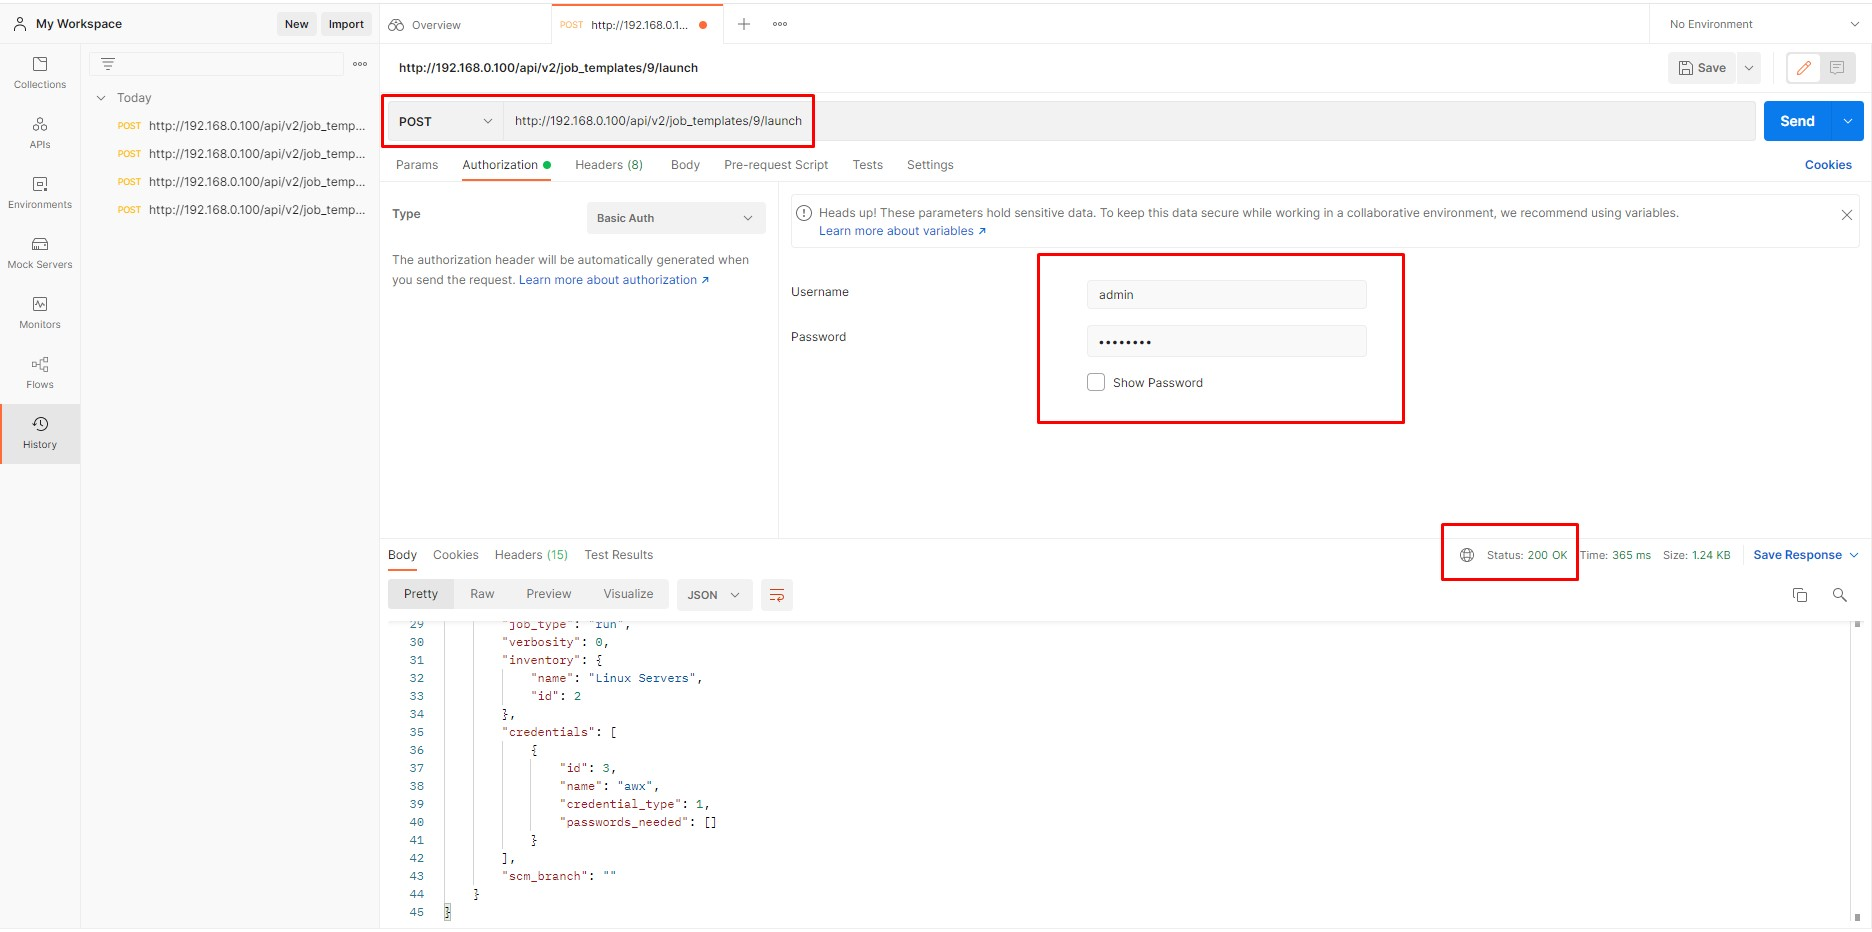
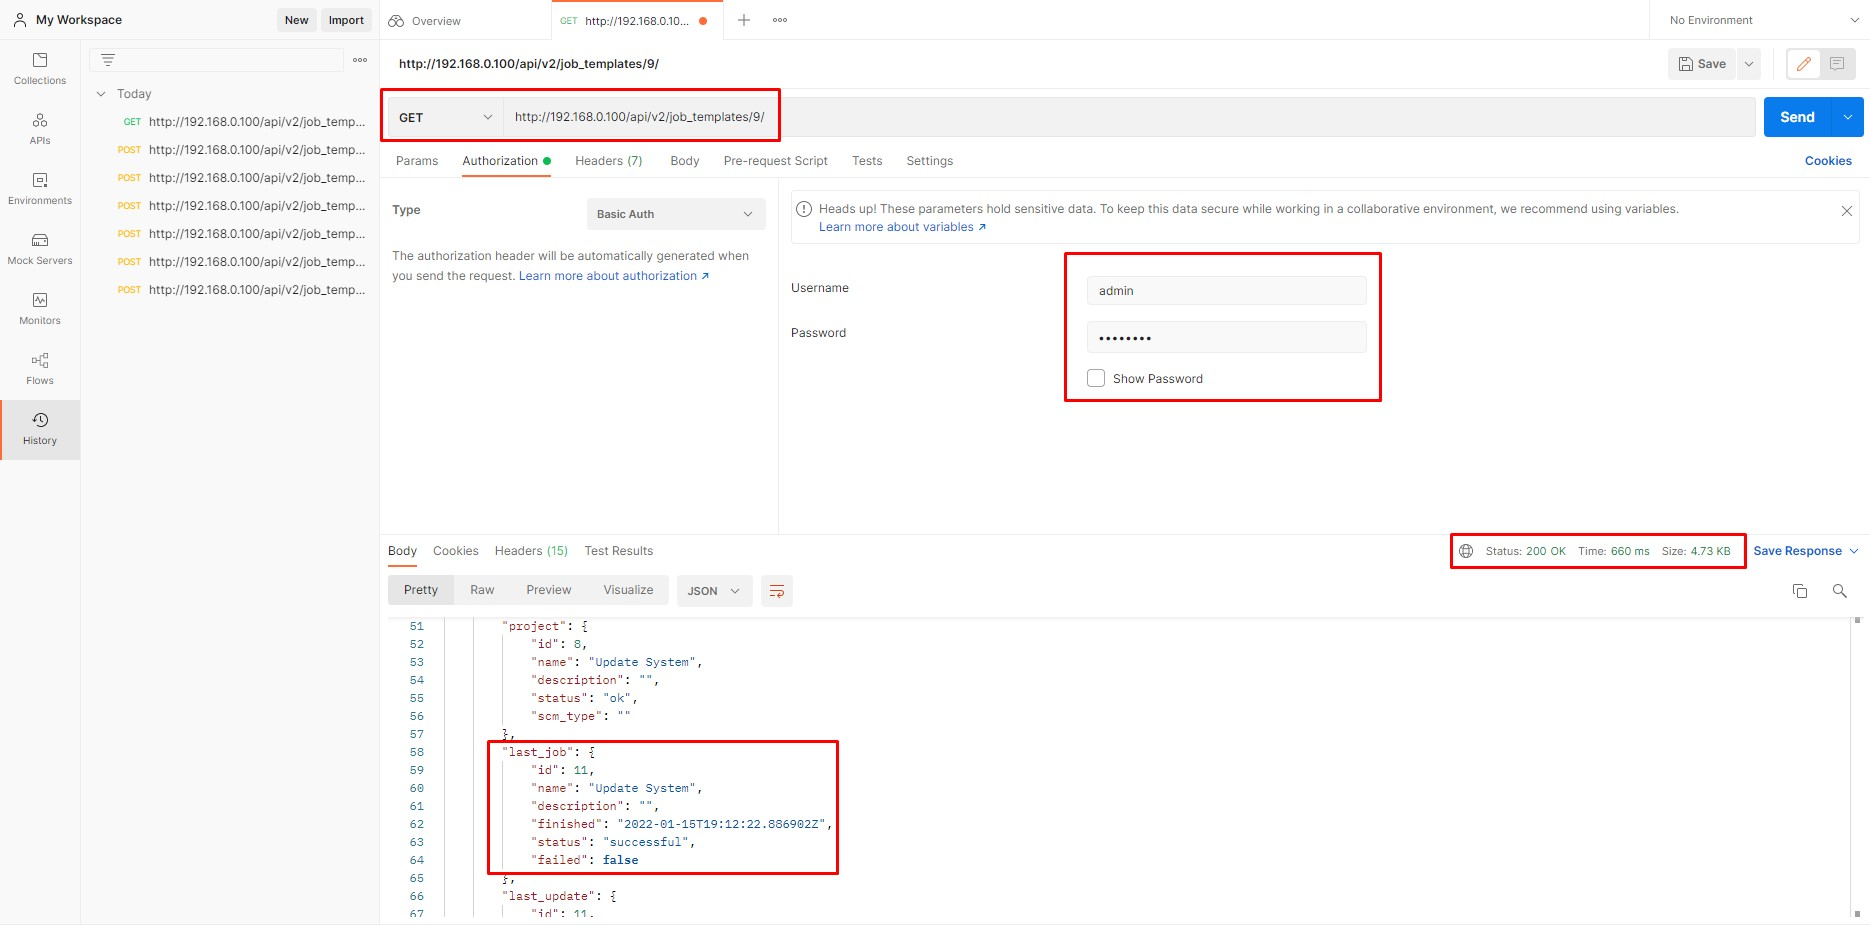
Atualizacao de codigo

diff --git a/zbx_awx_sh/README.md b/zbx_awx_sh/README.md
@@ -4,6 +4,7 @@ Pré requisito:
 |-------------|-----------|
 |`Vagrant`| https://releases.hashicorp.com/vagrant/2.2.19/vagrant_2.2.19_x86_64.msi
 |`VirtualBox`| https://download.virtualbox.org/virtualbox/6.1.30/VirtualBox-6.1.30-148432-Win.exe
+|`Postman`| https://www.postman.com/downloads/
 
 # Zabbix & AWX #
 
@@ -27,6 +28,7 @@ $ docker-compose --profile zabbix up -d
 $ watch docker ps
 ```
 
+**Vagrant**
 ```
 !!! Edit Vagrantfile !!!
     ## SETAR IP'S
@@ -82,9 +84,18 @@ https://hub.docker.com/r/zabbix/zabbix-agent
 . Criar projeto (Update System - Privilege Escalation: On)<br>
 . Criar template (Survey: On - Answer variable name: host_name - Maximum length: 20)<br>
 
-**POSTMAN - Post template 9 "Update System".**<br>
+**POSTMAN - GET - Info execução template 9 "Update System".**<br>
+http://192.168.0.100/api/v2/job_templates/9/<br>
 <kbd>
     <img src="https://github.com/fabiokerber/lab/blob/main/images/150120221604.jpg">
+</kbd>
+<br />
+<br />
+
+**POSTMAN - POST - Acionamento template 9 "Update System".**<br>
+http://192.168.0.100/api/v2/job_templates/9/launch/<br>
+<kbd>
+    <img src="https://github.com/fabiokerber/lab/blob/main/images/150120221612.jpg">
 </kbd>
 <br />
 <br />
